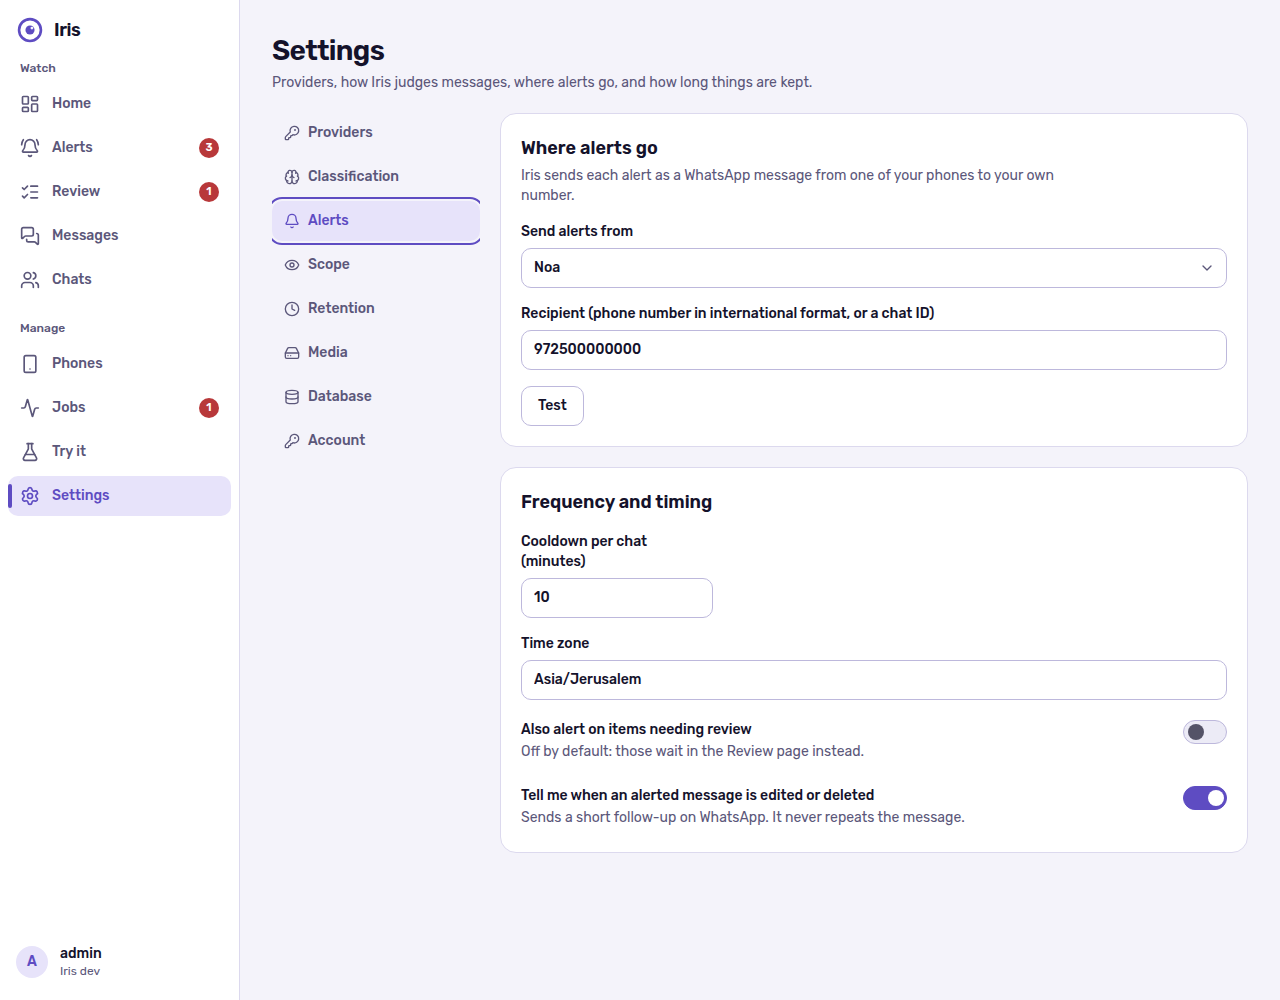
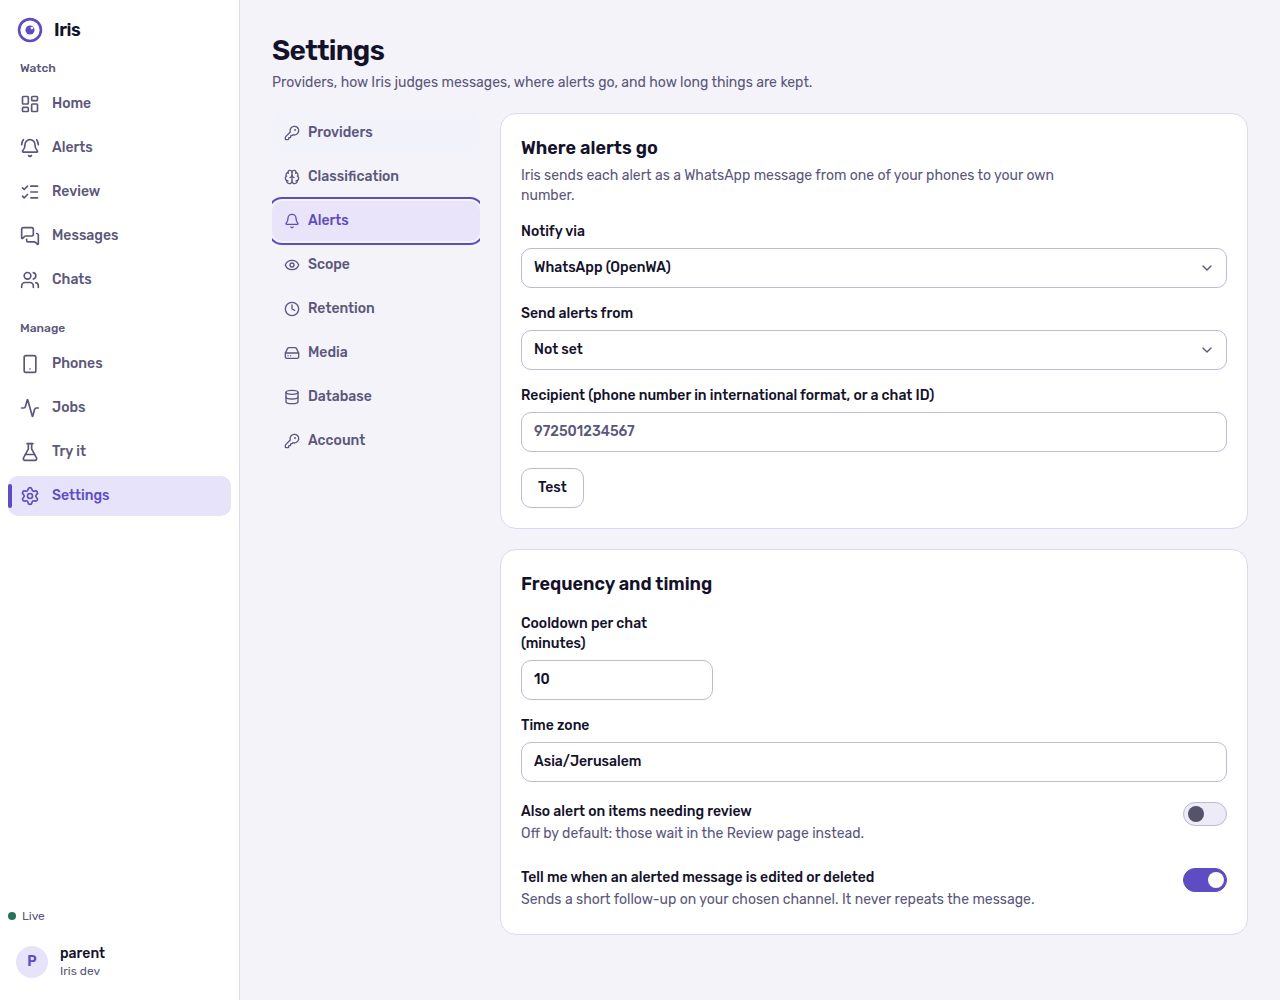
docs: document the Telegram alert channel

diff --git a/README.md b/README.md
@@ -2,7 +2,7 @@
 
 Iris is a self-hosted safety monitor for kids' WhatsApp. It watches the chats and groups of one or more
 kids' numbers through [OpenWA](https://github.com/rmyndharis/OpenWA), classifies **text, voice notes,
-audio, images and video** for harmful content, and alerts a parent **over WhatsApp** with the kid, the chat,
+audio, images and video** for harmful content, and alerts a parent **over WhatsApp or Telegram** (you pick one) with the kid, the chat,
 the sender and the quoted message.
 
 It is built for mixed Hebrew and English chats (nothing is hardcoded to a language), runs as a single Docker
@@ -39,13 +39,14 @@ container (amd64 and arm64), and uses free or low-cost models wherever possible.
   transcript is moderated.
 - **Context-aware second look.** A message that is borderline is re-checked together with the previous
   messages in the same chat. If it is still unclear it lands in a **review queue** instead of a guess.
-- **WhatsApp alerts** with the kid, chat, sender, category, score, time and the quoted message. A per-chat
-  cooldown avoids floods and the next alert says how many were held back.
+- **WhatsApp or Telegram alerts** with the kid, chat, sender, category, score, time and the quoted message.
+  You choose one channel under Settings → Alerts: WhatsApp through OpenWA, or a Telegram bot of your own.
+  A per-chat cooldown avoids floods and the next alert says how many were held back.
 - **Both sessions monitored?** A message between two monitored kids is stored once, with both kids on it, and
   produces one alert.
 - **Edits and deletes are kept.** A message the sender deletes for everyone stays in Iris with a red border
   and a "Deleted for everyone" label. An edited message gets an **Edited** marker, and the original wording
-  and every earlier version stay available as an edit history. Iris tells you on WhatsApp when the message of
+  and every earlier version stay available as an edit history. Iris tells you on your alert channel when the message of
   an alert you already received is edited or deleted.
 - **Try it page.** Type a message, see how Iris scores and classifies it, and adjust the thresholds with an
   instant preview before saving them.
@@ -86,7 +87,7 @@ flowchart LR
         A -- "send-text" --> OW
         UI["Portal + REST API"] --- DB[("SQLite, PostgreSQL<br/>or MySQL")]
     end
-    A -. "WhatsApp message" .-> P(("Parent"))
+    A -. "WhatsApp or Telegram message" .-> P(("Parent"))
 ```
 
 The webhook handler never calls an external API: it validates, stores, queues and answers `200`. All slow
@@ -166,11 +167,20 @@ IRIS_ADMIN_USERNAME=admin IRIS_ADMIN_PASSWORD=change-me IRIS_DATA_DIR=./data \
    destination is not allowed, your `IRIS_PUBLIC_BASE_URL` is a private address (see Requirements).
    You can also paste the shown URL (`https://…/webhooks/<token>`) into OpenWA by hand.
 3. Repeat for every number you monitor.
-4. Under **Settings → Alerts** choose the instance that **sends** alerts, enter the parent's number
-   (international format, digits only, e.g. `972501234567`) and press **Test**. A real WhatsApp message is
-   sent using the values you typed, before you save.
+4. Under **Settings → Alerts** choose how to be notified (**Notify via**). One channel is used at a time;
+   the values of the other are kept but ignored. Press **Test** to send a real message using the values you
+   typed, before you save.
+   - **WhatsApp (OpenWA):** choose the instance that **sends** alerts and enter the parent's number
+     (international format, digits only, e.g. `972501234567`).
+   - **Telegram:** create a bot with [@BotFather](https://t.me/BotFather) and paste its token (write-only: Iris
+     never shows it again). Then enter your **chat ID**: send any message to your bot, open
+     `https://api.telegram.org/bot<token>/getUpdates` and copy `chat.id` (or ask @userinfobot). A group or
+     channel ID is negative, and a public channel can also be given as `@channelname`. Telegram only lets a
+     bot write to a chat that has messaged it first.
 
-![Settings: alerts](assets/screenshots/settings-alerts.png)
+![Settings: alerts via WhatsApp](assets/screenshots/settings-alerts.png)
+
+![Settings: alerts via Telegram](assets/screenshots/settings-alerts-telegram.png)
 
 ![Phones](assets/screenshots/instances.png)
 
@@ -300,7 +310,10 @@ UI only ever say whether one is set.
 | Classification | Moderation model | `omni-moderation-latest` |
 | Classification | Per-category thresholds (low and high) | see below |
 | Classification | Context window / max age | 8 messages / 6 hours |
-| Alerts | Sender instance, recipient, cooldown, time zone | cooldown 10 min, `Asia/Jerusalem` |
+| Alerts | Notify via (`whatsapp` or `telegram`) | `whatsapp` |
+| Alerts | WhatsApp: sender instance, recipient | |
+| Alerts | Telegram: bot token (write-only), chat ID | |
+| Alerts | Cooldown, time zone | cooldown 10 min, `Asia/Jerusalem` |
 | Alerts | Also alert on items needing review | off |
 | Alerts | Tell me when an alerted message is edited or deleted | on |
 | Scope | Monitor messages sent by the kid, direct chats, groups | all on |
@@ -383,7 +396,7 @@ it, or **send it again** if delivery failed.
 
 ![Alert detail](assets/screenshots/alert-detail.png)
 
-The WhatsApp alert looks like this:
+The alert looks like this (the same text on WhatsApp and Telegram, as plain text):
 
 ```
 ⚠ Iris alert
@@ -444,7 +457,7 @@ How Iris treats a change:
 - Content that was withheld (see the safety rule) is never copied into the history, and withholding a message
   also clears its earlier versions.
 - With **Tell me when an alerted message is edited or deleted** on, an alert you already received gets a short
-  WhatsApp follow-up (the kid, chat, sender and a link). It never repeats the message text.
+  follow-up on the same channel (the kid, chat, sender and a link). It never repeats the message text.
 - An edit or delete that reaches Iris before the original message was stored is ignored. WhatsApp does not say
   what an edit replaced, so the history holds what Iris saw; the edit time is when Iris received it.
 
